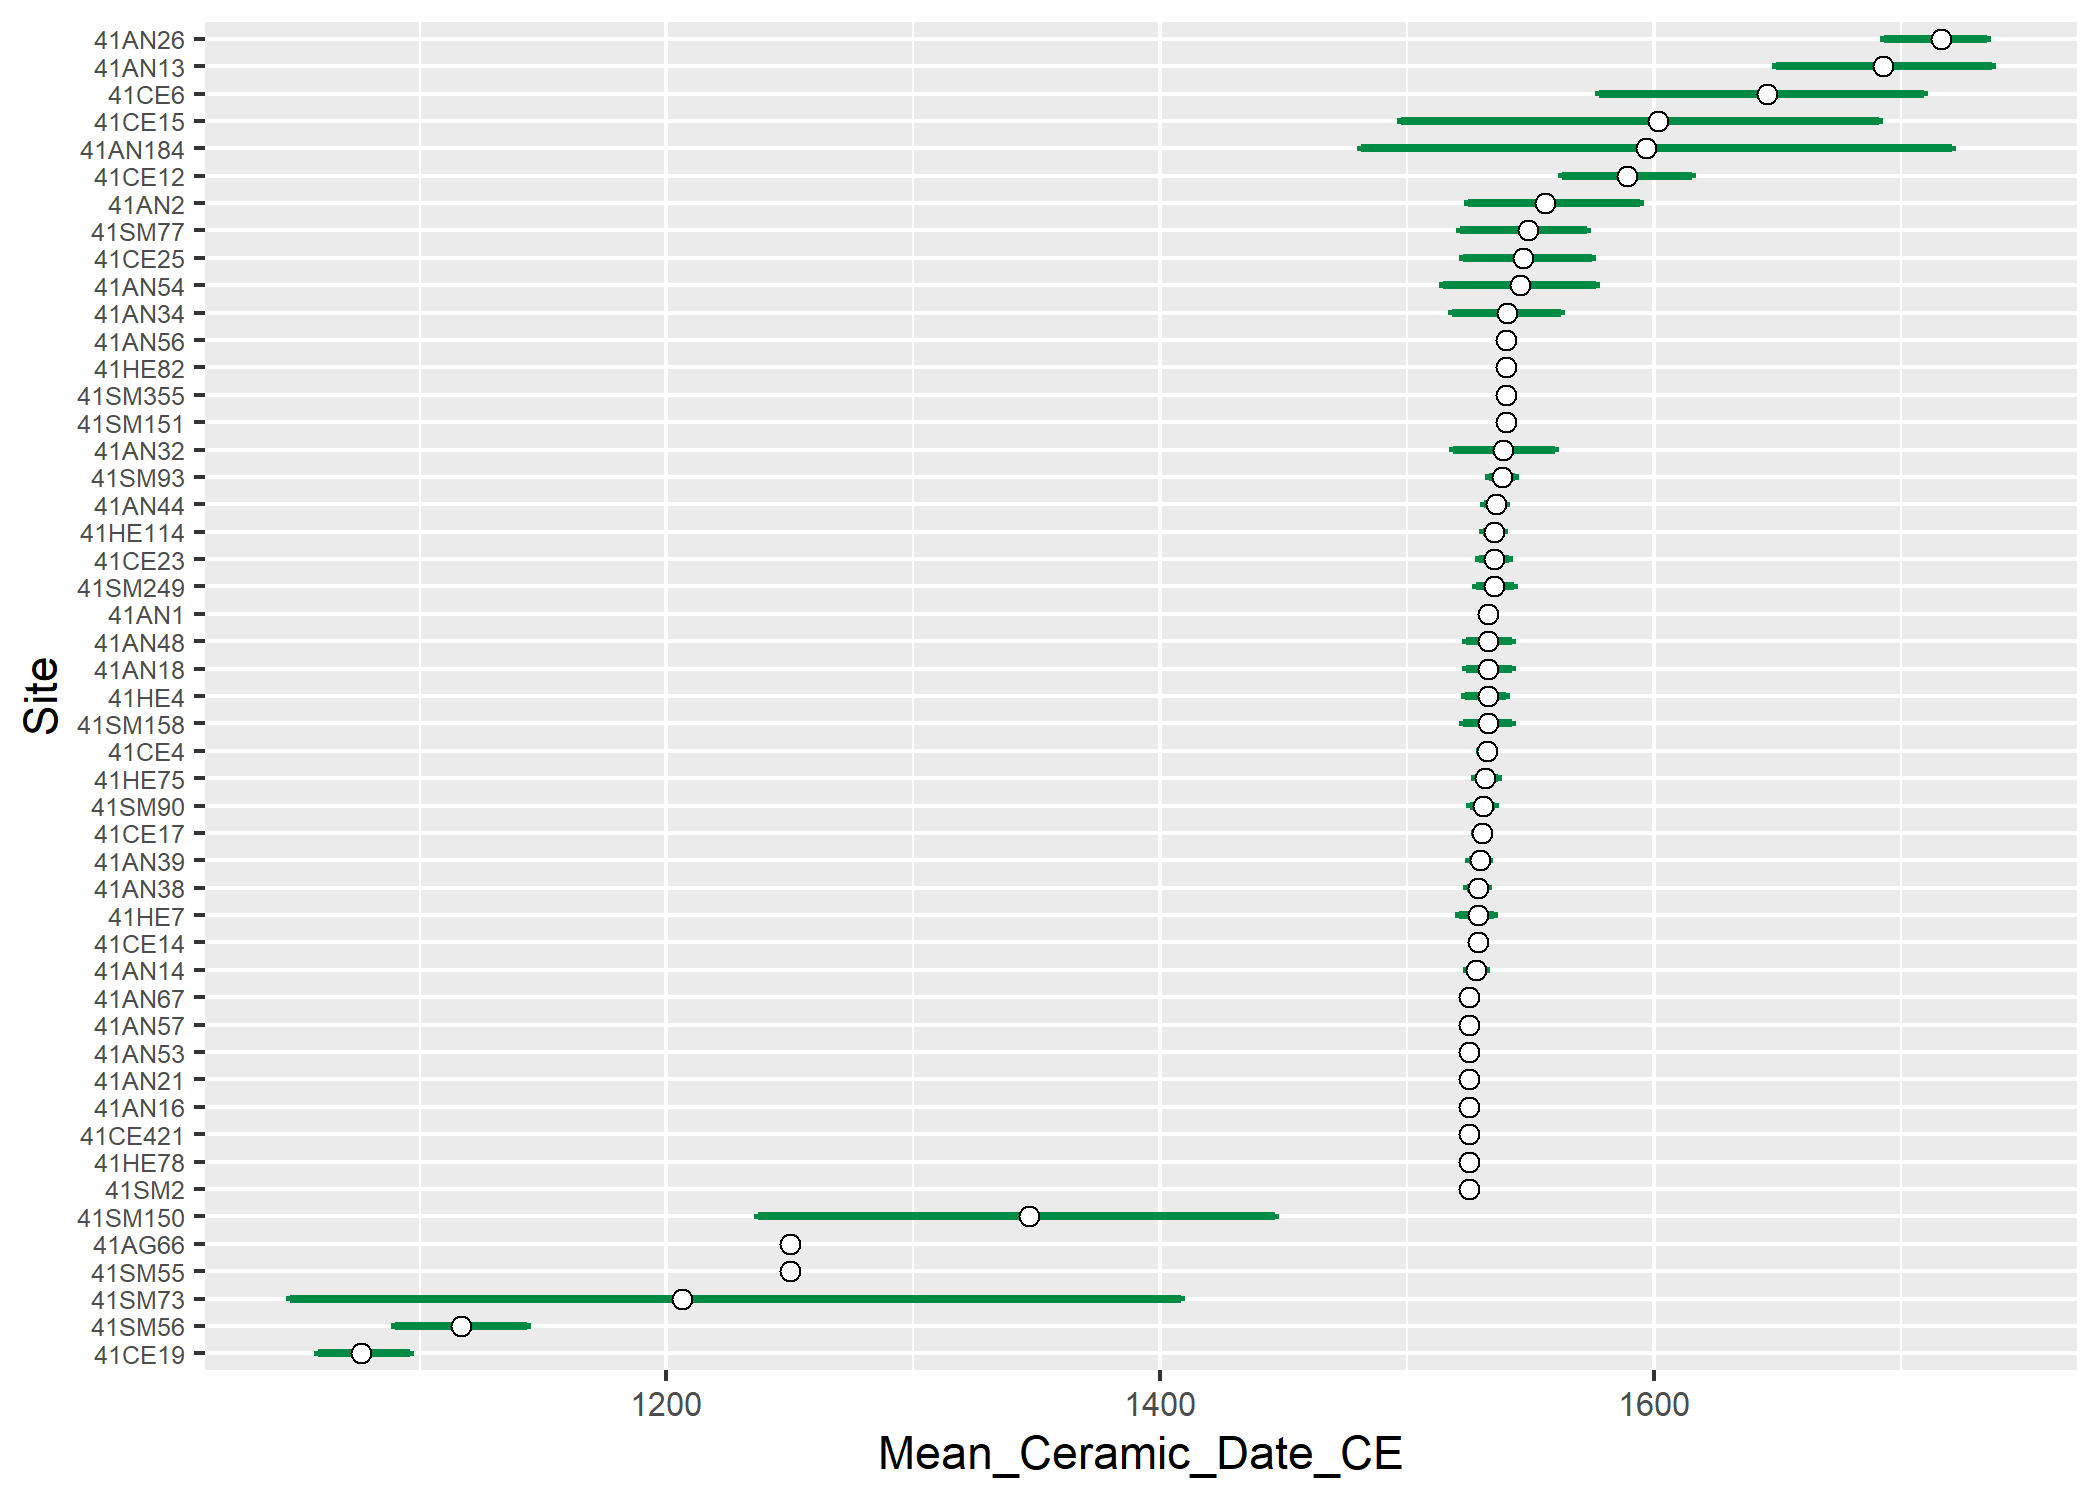
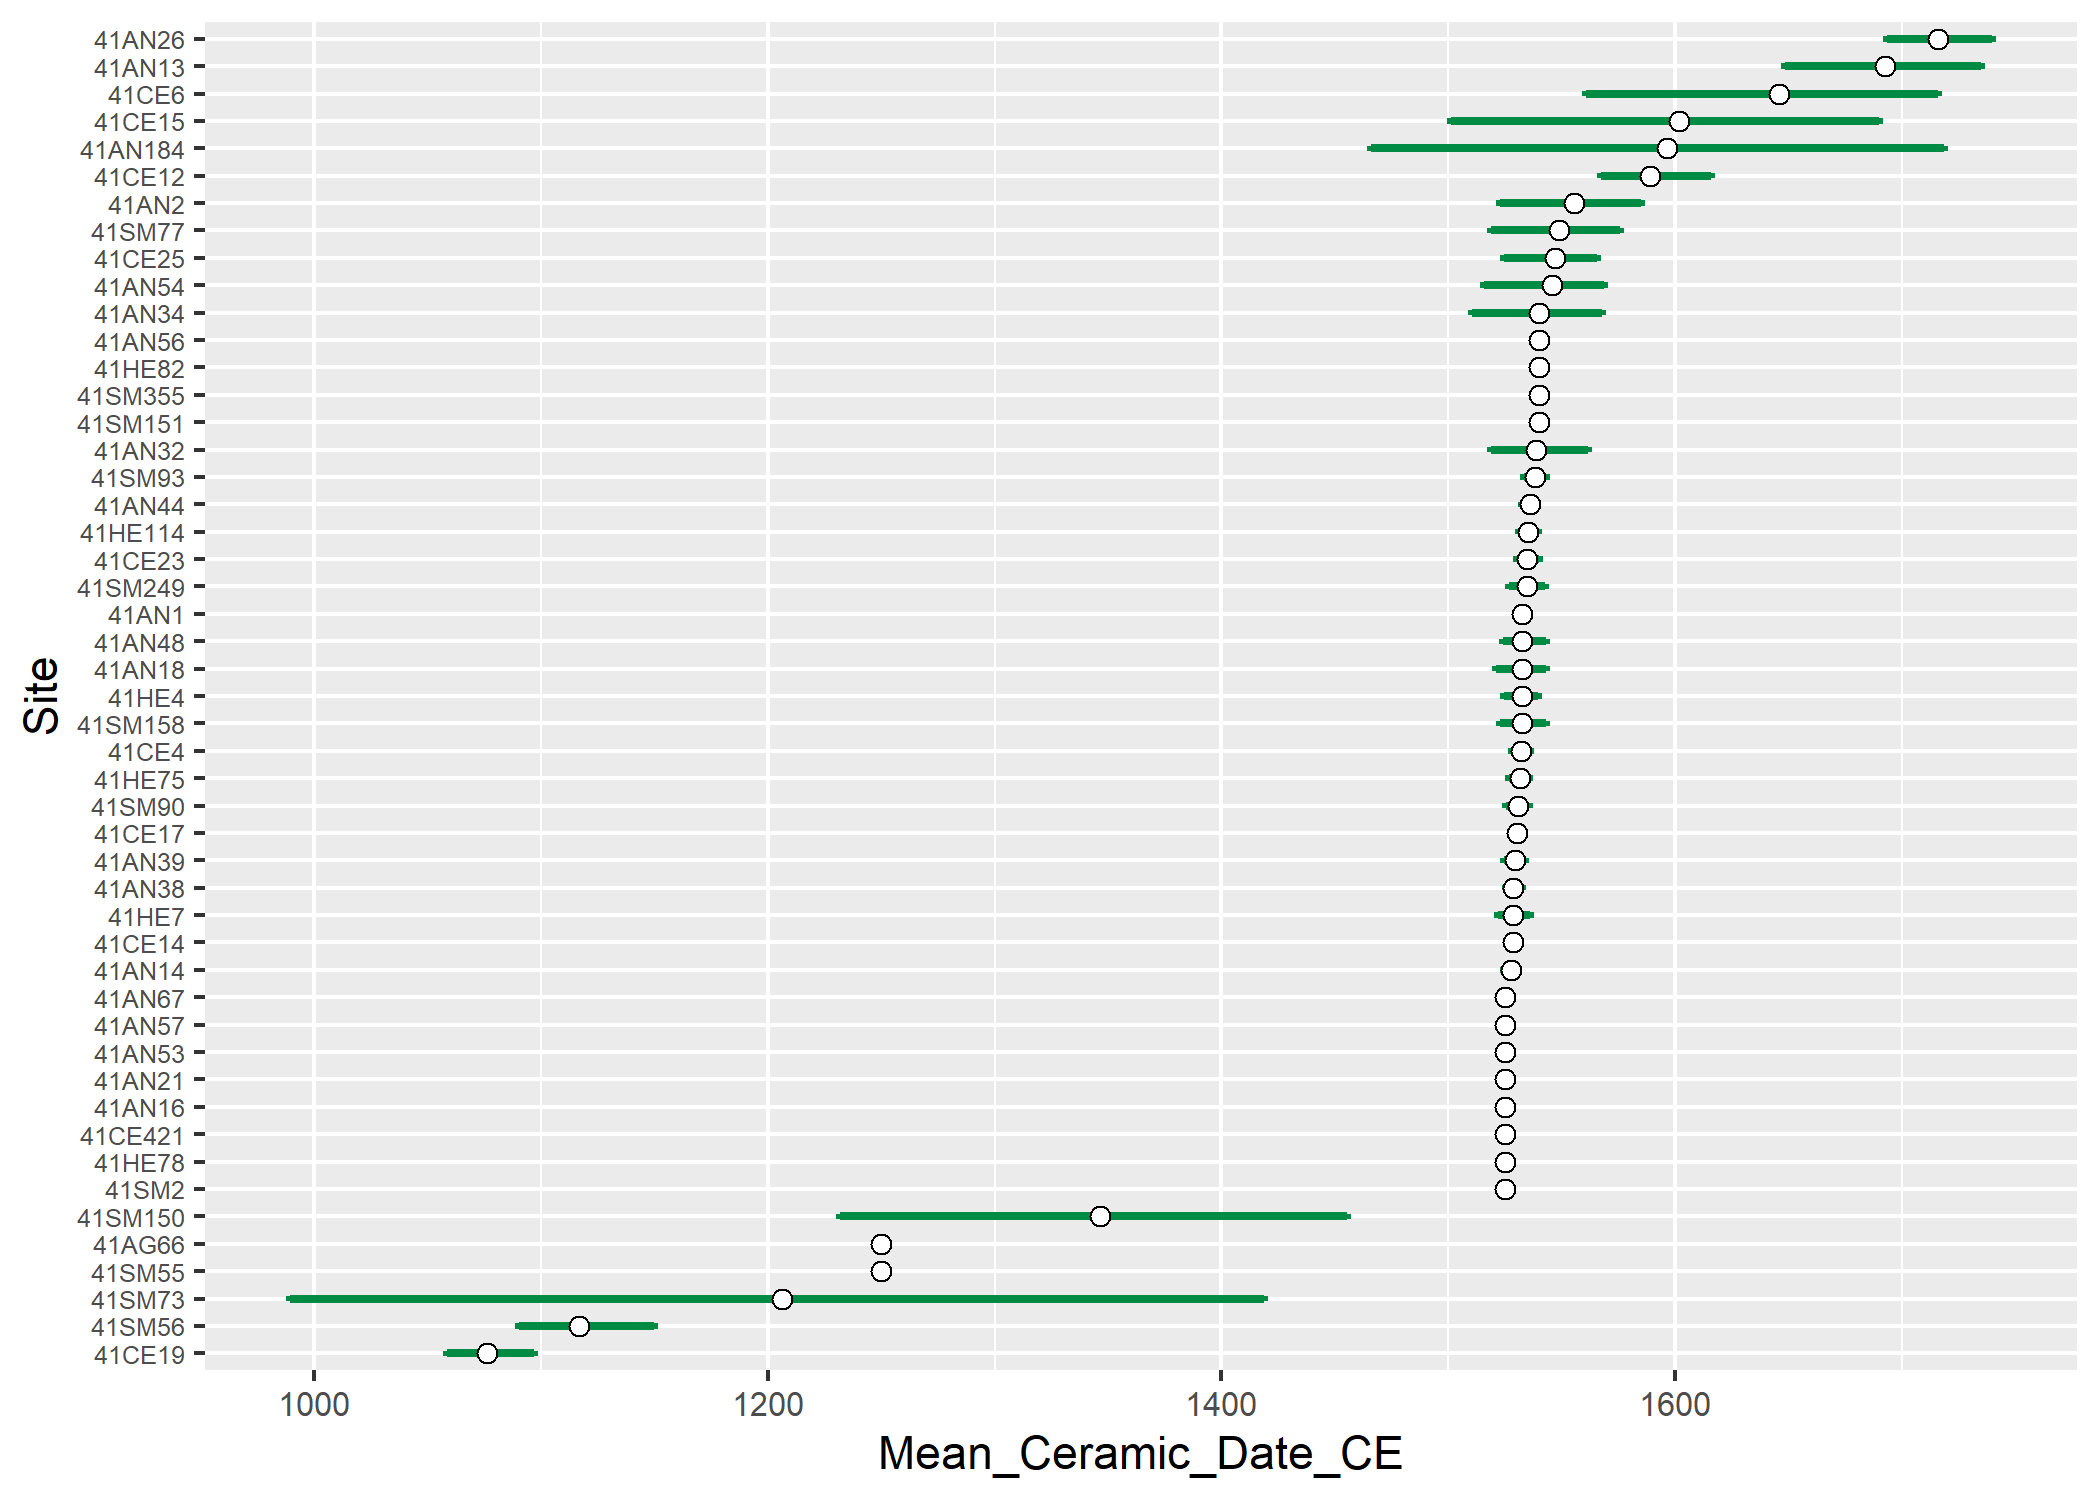
<edit mcd>

diff --git a/mcd.md b/mcd.md
@@ -5,13 +5,19 @@ June 8, 2020
 
 ## MCD for NRB
 
-Mean ceramic dates were calculated borrowing methodologically using code
-developed by Matthew A. Peeples, who was following Keith Kintigh, who
-was channelling Stanley South (1977).
+Sites selected for this study come from the Caddo Ceramic Vessel
+Database (Perttula 2017), which were plotted using coordinates from the
+Texas Historic Sites Atlas, then clipped to the extent of the Neches
+River Basin. Mean ceramic dates were calculated and plotted using
+modified code originally developed by [Peeples
+(2011)](http://www.mattpeeples.net/mcd.html), who was following South
+(1972, 1977).
 
 ``` r
 # set working directory
 setwd(getwd())
+
+#read data
 mydata <- read.csv(file = 'nrb_mcd_data.csv', sep = ',', header = T, row.names = 1)
 types <- as.matrix(colnames(mydata))
 
@@ -62,51 +68,51 @@ output
 ```
 
     ##         site      mcd                lower              higher            
-    ## 41SM56  "41SM56"  "1116.66666666667" "1089.99444502303" "1143.33888831031"
+    ## 41SM56  "41SM56"  "1116.66666666667" "1090.26279525655" "1149.87325916522"
     ## 41SM55  "41SM55"  "1250"             "1250"             "1250"            
-    ## 41SM77  "41SM77"  "1548.75"          "1521.35226520514" "1572.77018377445"
-    ## 41SM90  "41SM90"  "1530.625"         "1525.58314223445" "1535.5903271533" 
-    ## 41SM73  "41SM73"  "1206.25"          "1047.68615123723" "1408.18119570155"
-    ## 41SM93  "41SM93"  "1538.5"           "1532.93765508911" "1543.75622246191"
+    ## 41SM77  "41SM77"  "1548.75"          "1518.96551596818" "1575.93244321549"
+    ## 41SM90  "41SM90"  "1530.625"         "1525.63170120378" "1535.46523757174"
+    ## 41SM73  "41SM73"  "1206.25"          "989.465399333755" "1418.69786597237"
+    ## 41SM93  "41SM93"  "1538.5"           "1533.44457585296" "1543.37175067765"
     ## 41SM151 "41SM151" "1540"             "1540"             "1540"            
-    ## 41SM158 "41SM158" "1532.5"           "1522.54805295432" "1542.45194704568"
-    ## 41SM249 "41SM249" "1535"             "1527.96012100978" "1543.26436878614"
-    ## 41SM150 "41SM150" "1346.66666666667" "1237.16104713712" "1446.30834061798"
+    ## 41SM158 "41SM158" "1532.5"           "1522.82428110857" "1543.09408623837"
+    ## 41SM249 "41SM249" "1535"             "1526.80446459889" "1542.7873721358" 
+    ## 41SM150 "41SM150" "1346.66666666667" "1231.93793420178" "1455.47703178461"
     ## 41SM355 "41SM355" "1540"             "1540"             "1540"            
     ## 41SM2   "41SM2"   "1525"             "1525"             "1525"            
-    ## 41HE114 "41HE114" "1535.26315789474" "1530.73910917995" "1539.20718512725"
-    ## 41HE4   "41HE4"   "1532.5"           "1523.50194879934" "1540.12050018025"
-    ## 41HE75  "41HE75"  "1531.66666666667" "1527.57546783727" "1536.57419202668"
+    ## 41HE114 "41HE114" "1535.26315789474" "1531.21591109523" "1539.76153251379"
+    ## 41HE4   "41HE4"   "1532.5"           "1524.85150266412" "1539.8423748869" 
+    ## 41HE75  "41HE75"  "1531.66666666667" "1526.90373502858" "1535.8173534068" 
     ## 41HE78  "41HE78"  "1525"             "1525"             "1525"            
     ## 41HE82  "41HE82"  "1540"             "1540"             "1540"            
-    ## 41HE7   "41HE7"   "1528.75"          "1521.07655377458" "1535.04589520501"
-    ## 41CE4   "41CE4"   "1532.14285714286" "1529.39087156834" "1535.30300598268"
-    ## 41CE12  "41CE12"  "1589.13461538462" "1562.64902966708" "1615.40042088237"
-    ## 41CE14  "41CE14"  "1528.57142857143" "1527.23945326625" "1529.9092347804" 
-    ## 41CE15  "41CE15"  "1601.66666666667" "1497.3947557678"  "1691.10864559274"
-    ## 41CE17  "41CE17"  "1530.19230769231" "1527.49239906365" "1533.15124300856"
-    ## 41CE19  "41CE19"  "1076.27272727273" "1058.99886418832" "1096.13286122912"
-    ## 41CE23  "41CE23"  "1535"             "1529.21645550315" "1541.19170776215"
-    ## 41CE25  "41CE25"  "1547"             "1522.65209253461" "1574.6948462409" 
+    ## 41HE7   "41HE7"   "1528.75"          "1522.20760527371" "1535.90463962425"
+    ## 41CE4   "41CE4"   "1532.14285714286" "1528.25338199213" "1536.14895036939"
+    ## 41CE12  "41CE12"  "1589.13461538462" "1567.28454277304" "1615.98076334941"
+    ## 41CE14  "41CE14"  "1528.57142857143" "1527.35818756248" "1529.64472788941"
+    ## 41CE15  "41CE15"  "1601.66666666667" "1501.48685300982" "1689.94171841875"
+    ## 41CE17  "41CE17"  "1530.19230769231" "1527.80910039955" "1532.38713193954"
+    ## 41CE19  "41CE19"  "1076.27272727273" "1058.3746612928"  "1097.02515317845"
+    ## 41CE23  "41CE23"  "1535"             "1530.45714285714" "1540.25714285714"
+    ## 41CE25  "41CE25"  "1547"             "1524.79306826261" "1565.71305418637"
     ## 41CE421 "41CE421" "1525"             "1525"             "1525"            
-    ## 41CE6   "41CE6"   "1645.83333333333" "1577.65198447997" "1709.25277742479"
-    ## 41AN1   "41AN1"   "1532.75862068966" "1530.1463775962"  "1534.96973781548"
-    ## 41AN13  "41AN13"  "1692.69230769231" "1649.5100935038"  "1736.64375265004"
-    ## 41AN14  "41AN14"  "1527.72727272727" "1524.16542434556" "1531.90136600695"
+    ## 41CE6   "41CE6"   "1645.83333333333" "1560.97053288181" "1716.13831065561"
+    ## 41AN1   "41AN1"   "1532.75862068966" "1530.59274831005" "1535.22005957173"
+    ## 41AN13  "41AN13"  "1692.69230769231" "1648.60434376103" "1734.89644116833"
+    ## 41AN14  "41AN14"  "1527.72727272727" "1524.55108854532" "1530.95911553632"
     ## 41AN16  "41AN16"  "1525"             "1525"             "1525"            
-    ## 41AN18  "41AN18"  "1532.5"           "1523.70121413614" "1542.52327565978"
-    ## 41AN184 "41AN184" "1596.66666666667" "1481.42331207141" "1720.68553146601"
-    ## 41AN2   "41AN2"   "1555.625"         "1524.52145462702" "1594.38160659747"
+    ## 41AN18  "41AN18"  "1532.5"           "1521.32610622983" "1543.36777132119"
+    ## 41AN184 "41AN184" "1596.66666666667" "1465.96247250075" "1718.5953506285" 
+    ## 41AN2   "41AN2"   "1555.625"         "1522.8696265102"  "1584.97476124491"
     ## 41AN21  "41AN21"  "1525"             "1525"             "1525"            
-    ## 41AN26  "41AN26"  "1716.11111111111" "1693.16208543763" "1734.83489113078"
-    ## 41AN32  "41AN32"  "1538.75"          "1518.44613300027" "1559.74774455075"
-    ## 41AN34  "41AN34"  "1540.27777777778" "1518.13855599179" "1562.06552564087"
-    ## 41AN38  "41AN38"  "1528.75"          "1524.19881750318" "1532.84199882335"
-    ## 41AN39  "41AN39"  "1529.28571428571" "1525.01383708689" "1533.20773725714"
-    ## 41AN44  "41AN44"  "1535.90909090909" "1531.12096931381" "1539.91799172516"
-    ## 41AN48  "41AN48"  "1532.5"           "1523.70121413614" "1542.52327565978"
+    ## 41AN26  "41AN26"  "1716.11111111111" "1693.53517123156" "1739.66210768"   
+    ## 41AN32  "41AN32"  "1538.75"          "1518.7970709357"  "1561.59068416634"
+    ## 41AN34  "41AN34"  "1540.27777777778" "1510.61094553919" "1567.79041500503"
+    ## 41AN38  "41AN38"  "1528.75"          "1525.41547908687" "1532.39064336211"
+    ## 41AN39  "41AN39"  "1529.28571428571" "1524.42694028901" "1533.88209761187"
+    ## 41AN44  "41AN44"  "1535.90909090909" "1532.44087669438" "1538.98769473419"
+    ## 41AN48  "41AN48"  "1532.5"           "1524.08261937322" "1543.06023776964"
     ## 41AN53  "41AN53"  "1525"             "1525"             "1525"            
-    ## 41AN54  "41AN54"  "1545.71428571429" "1514.30131318721" "1576.60247690026"
+    ## 41AN54  "41AN54"  "1545.71428571429" "1515.65524328637" "1568.60131648039"
     ## 41AN56  "41AN56"  "1540"             "1540"             "1540"            
     ## 41AN57  "41AN57"  "1525"             "1525"             "1525"            
     ## 41AN67  "41AN67"  "1525"             "1525"             "1525"            
@@ -192,3 +198,32 @@ ggplot() +
 ``` r
 # end of code
 ```
+
+## References
+
+<div id="refs" class="references">
+
+<div id="ref-RN11605">
+
+Perttula, Timothy K. 2017. “Caddo Ceramic Vessel Database from Sites in
+Texas, Louisiana, Oklahoma, and Arkansas.” *Journal of Northeast Texas
+Archaeology* 71: 147–54.
+
+</div>
+
+<div id="ref-RN21010">
+
+South, Stanley A. 1972. “Evolution and Horizon as Revealed in Ceramic
+Analysis in Historical Archaeology.” *Conference on Historic Site
+Archaeology Papers* 6 (2): 71–116.
+
+</div>
+
+<div id="ref-RN21011">
+
+———. 1977. *Method and Theory in Historical Archaeology*. New York:
+Academic Press.
+
+</div>
+
+</div>
